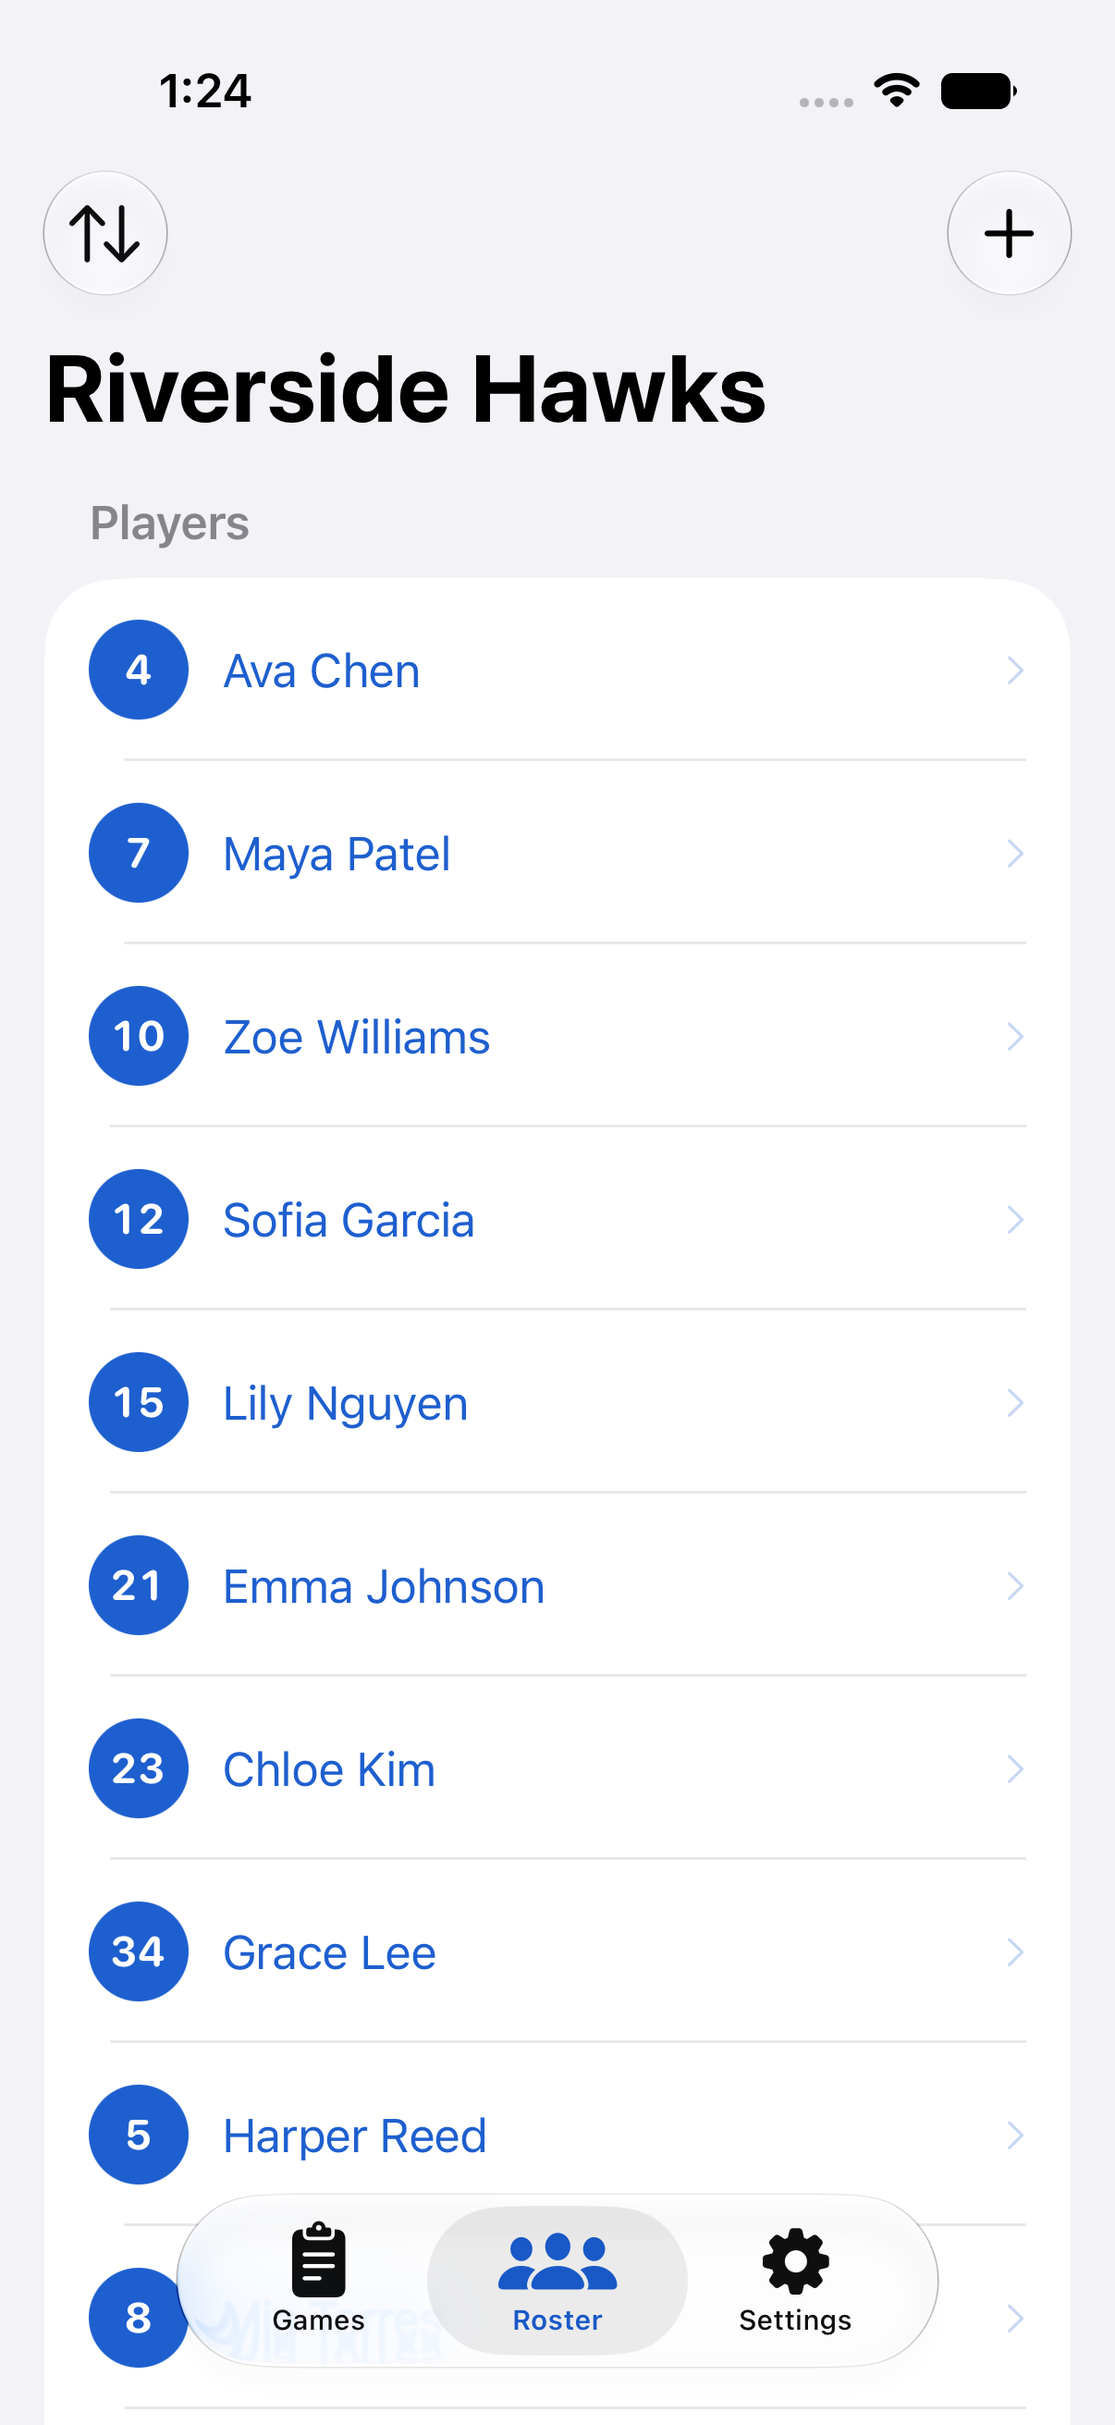
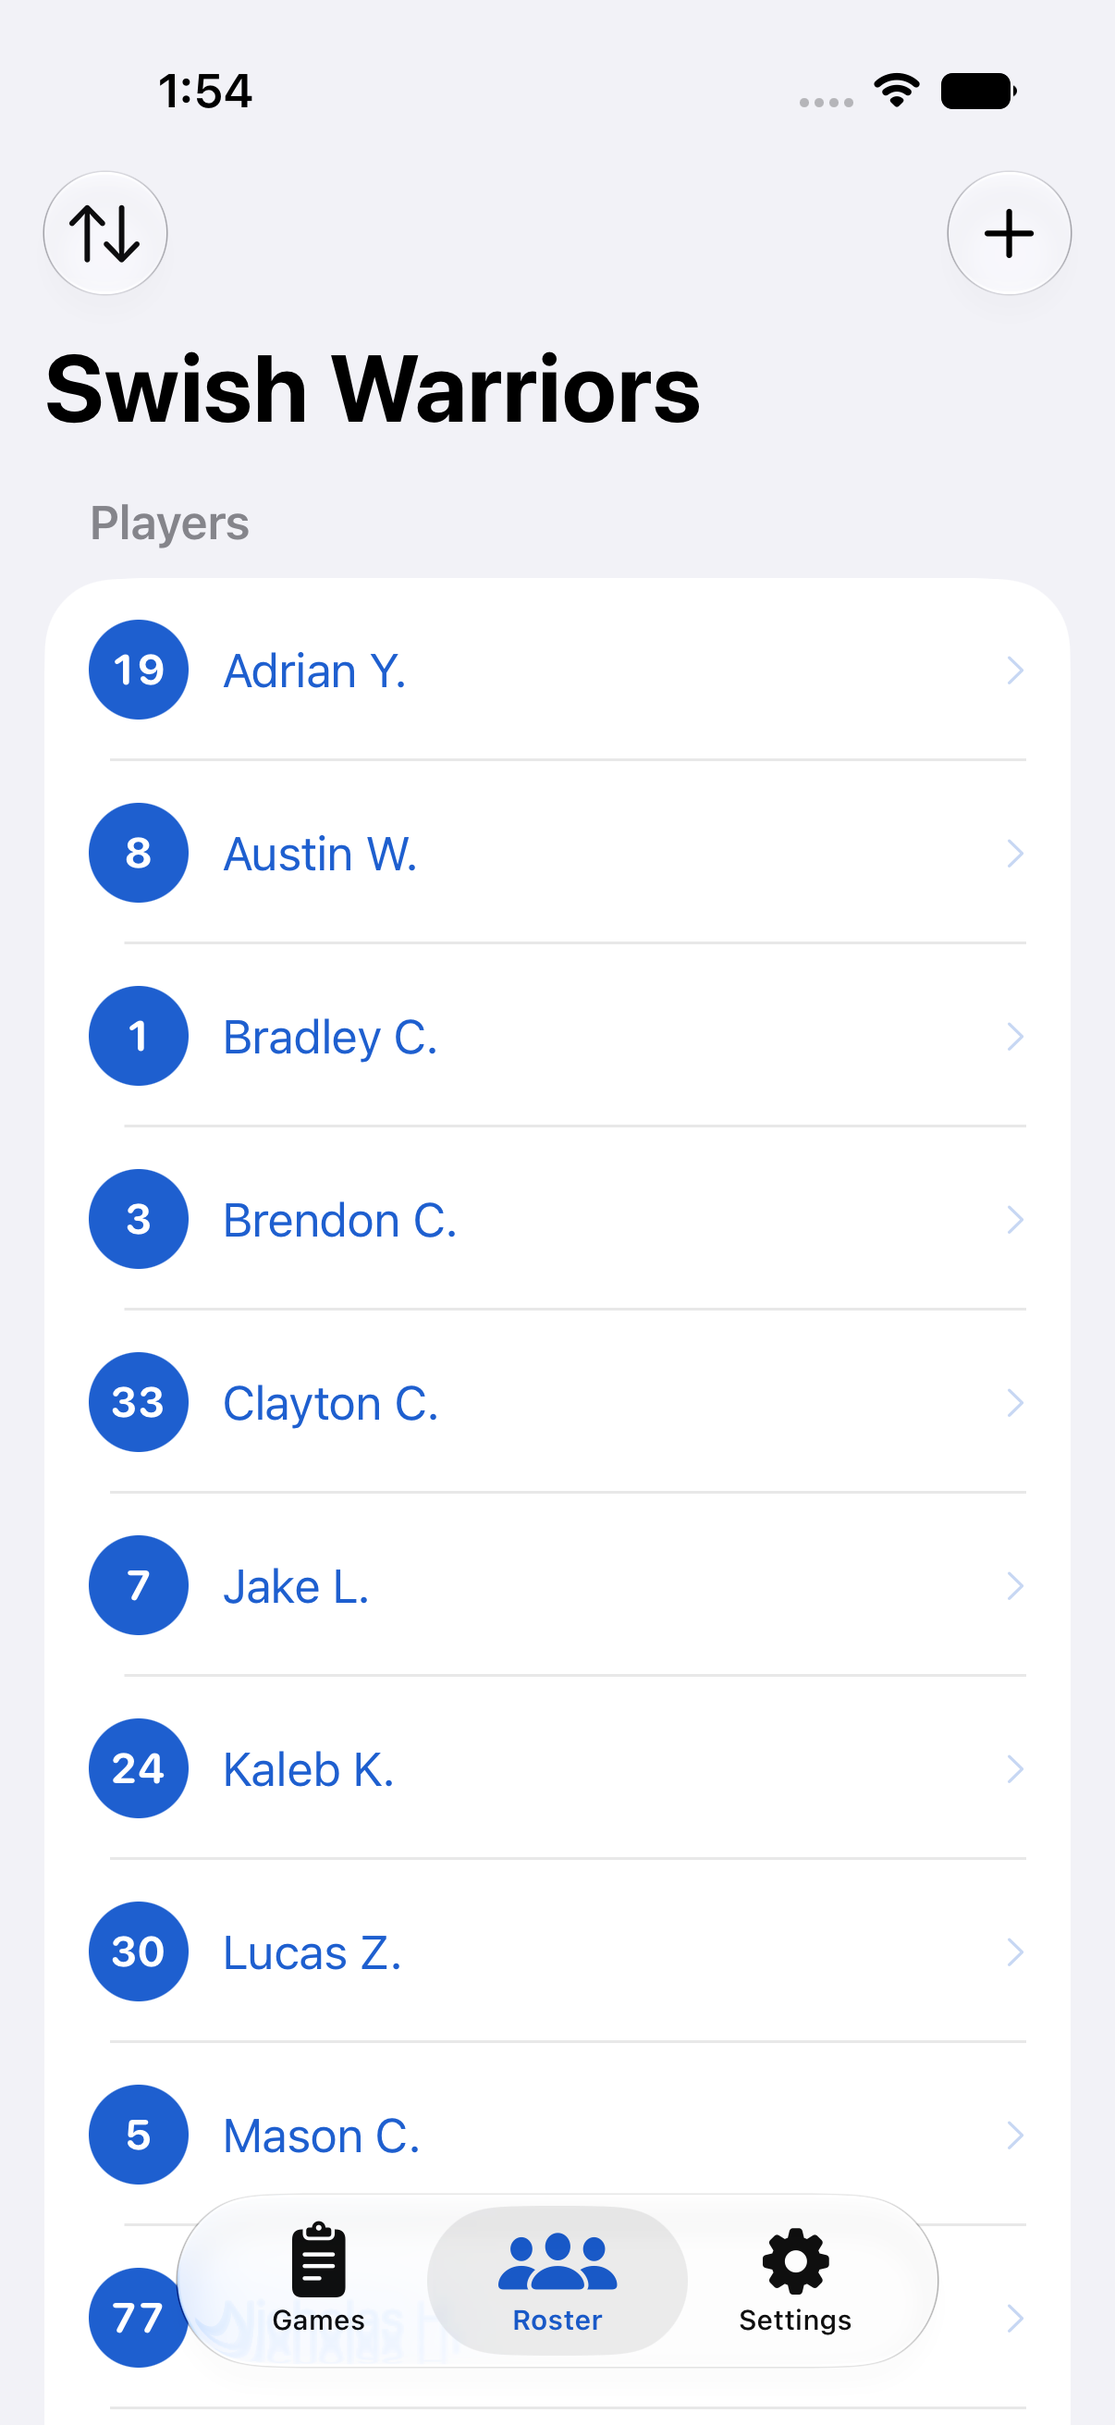
App Store prep: iPhone-only, Swish Warriors demo roster, listing doc
- Set TARGETED_DEVICE_FAMILY = 1 (iPhone-only) across all configs, closing
  the universal-vs-iPhone decision (#7) so no iPad screenshots/layout are
  needed for submission.
- Demo roster is now "Swish Warriors" with last-name-initial-only names
  (privacy-safe for a public repo / App Store shots), ordered alphabetically.
- Finished demo game reworked so #77 leads with a game-high 27 and six made
  3s; regenerated the six README screenshots (docs/img/).
- Updated ScreenshotUITests player taps for the new roster.
- Rewrote docs/APP_STORE_LISTING.md to match the shipping app (no foul
  tracking, no undo), with copy-paste metadata, privacy/age answers,
  iPhone-only screenshot guidance, and a pre-submission checklist.

Closes #7

diff --git a/CourtsideHoopStats/Models/DemoData.swift b/CourtsideHoopStats/Models/DemoData.swift
@@ -8,22 +8,25 @@ import Foundation
 enum DemoData {
     /// A believable youth-basketball roster.
     static func makeTeam() -> Team {
+        // Last-name initial only — real-ish roster kept privacy-safe for the
+        // public repo / App Store screenshots. Ordered alphabetically (the demo
+        // presents a Name-sorted roster); game scripts below index into THIS order.
         Team(
-            name: "Riverside Hawks",
+            name: "Swish Warriors",
             players: [
-                Player(name: "Ava Chen", number: "4"),
-                Player(name: "Maya Patel", number: "7"),
-                Player(name: "Zoe Williams", number: "10"),
-                Player(name: "Sofia Garcia", number: "12"),
-                Player(name: "Lily Nguyen", number: "15"),
-                Player(name: "Emma Johnson", number: "21"),
-                Player(name: "Chloe Kim", number: "23"),
-                Player(name: "Grace Lee", number: "34"),
-                Player(name: "Harper Reed", number: "5"),
-                Player(name: "Mia Torres", number: "8"),
-                Player(name: "Ella Brooks", number: "9"),
+                Player(name: "Adrian Y.", number: "19"),   // 0
+                Player(name: "Austin W.", number: "8"),     // 1
+                Player(name: "Bradley C.", number: "1"),    // 2
+                Player(name: "Brendon C.", number: "3"),    // 3
+                Player(name: "Clayton C.", number: "33"),   // 4
+                Player(name: "Jake L.", number: "7"),       // 5
+                Player(name: "Kaleb K.", number: "24"),     // 6
+                Player(name: "Lucas Z.", number: "30"),     // 7
+                Player(name: "Mason C.", number: "5"),      // 8
+                Player(name: "Nicholas H.", number: "77"),  // 9
+                Player(name: "Wesley C.", number: "88"),    // 10
             ],
-            homeJersey: .white
+            homeJersey: .blue
         )
     }
 
@@ -105,36 +108,38 @@ enum DemoData {
          scheduledGame()]
     }
 
-    // MARK: - Finished game (45–41 win) with a full four-quarter breakdown.
+    // MARK: - Finished game (48–41 win) with a full four-quarter breakdown.
 
     private static func finishedGame(team: Team) -> Game {
         let p = team.players
         var events: [GameEvent] = []
-        // (playerIndex, type, period) — our per-quarter deltas: 10, 12, 11, 12 = 45.
+        // (playerIndex, type, period). Nicholas (#77, index 9) is the standout —
+        // six made 3s and a game-high 27. Our per-quarter deltas: 12, 12, 11, 13 = 48.
         let script: [(Int, EventType, Int)] = [
-            // Q1 = 10
-            (0, .twoPoint, 1), (2, .threePoint, 1), (1, .twoPoint, 1),
-            (3, .twoPoint, 1), (0, .ftMade, 1),
+            // Q1 = 12
+            (9, .threePoint, 1), (9, .threePoint, 1), (2, .twoPoint, 1),
+            (8, .twoPoint, 1), (9, .ftMade, 1), (0, .ftMade, 1),
             // Q2 = 12
-            (2, .twoPoint, 2), (4, .threePoint, 2), (0, .twoPoint, 2),
-            (1, .ftMade, 2), (1, .ftMissed, 2), (5, .twoPoint, 2), (2, .ftMade, 2),
+            (9, .threePoint, 2), (3, .twoPoint, 2), (5, .twoPoint, 2),
+            (9, .twoPoint, 2), (1, .threePoint, 2),
             // Q3 = 11
-            (0, .threePoint, 3), (6, .twoPoint, 3), (2, .twoPoint, 3),
-            (3, .twoPoint, 3), (0, .ftMade, 3), (4, .ftMissed, 3),
-            // Q4 = 12
-            (1, .threePoint, 4), (0, .twoPoint, 4), (2, .twoPoint, 4),
-            (7, .twoPoint, 4), (5, .ftMade, 4), (5, .ftMade, 4), (6, .ftMissed, 4),
+            (9, .threePoint, 3), (8, .twoPoint, 3), (9, .twoPoint, 3),
+            (7, .twoPoint, 3), (9, .ftMade, 3), (9, .ftMissed, 3), (2, .ftMade, 3),
+            // Q4 = 13
+            (9, .threePoint, 4), (9, .threePoint, 4), (6, .twoPoint, 4),
+            (4, .twoPoint, 4), (9, .ftMade, 4), (9, .ftMade, 4), (9, .ftMade, 4),
+            (5, .ftMissed, 4),
         ]
         for (idx, type, period) in script {
             events.append(GameEvent(playerID: p[idx].id, type: type, period: period,
                                     timestamp: refDate.addingTimeInterval(Double(period) * 600)))
         }
-        // Opponent running totals per quarter: 8, 19, 30, 41 (final 41 < our 45).
+        // Opponent running totals per quarter: 8, 19, 30, 41 (final 41 < our 48).
         let periodEnds: [Int: PeriodEndScore] = [
-            1: PeriodEndScore(ourRunningTotal: 10, opponentRunningTotal: 8),
-            2: PeriodEndScore(ourRunningTotal: 22, opponentRunningTotal: 19),
-            3: PeriodEndScore(ourRunningTotal: 33, opponentRunningTotal: 30),
-            4: PeriodEndScore(ourRunningTotal: 45, opponentRunningTotal: 41),
+            1: PeriodEndScore(ourRunningTotal: 12, opponentRunningTotal: 8),
+            2: PeriodEndScore(ourRunningTotal: 24, opponentRunningTotal: 19),
+            3: PeriodEndScore(ourRunningTotal: 35, opponentRunningTotal: 30),
+            4: PeriodEndScore(ourRunningTotal: 48, opponentRunningTotal: 41),
         ]
         return Game(
             date: refDate,
@@ -146,7 +151,7 @@ enum DemoData {
             periodFormat: .quarters,
             events: events,
             periodEndScores: periodEnds,
-            notes: "Great defensive third quarter. Watch #12 on the press next time.",
+            notes: "Great defensive third quarter. Watch #33 on the press next time.",
             isComplete: true,
             hasStarted: true
         )
@@ -156,11 +161,12 @@ enum DemoData {
 
     private static func inProgressGame(team: Team) -> Game {
         let p = team.players
+        // Nicholas (index 9) opens with a 3; running total 7 at the Q1 break.
         let events: [GameEvent] = [
-            GameEvent(playerID: p[0].id, type: .twoPoint, period: 1),
-            GameEvent(playerID: p[2].id, type: .threePoint, period: 1),
-            GameEvent(playerID: p[1].id, type: .twoPoint, period: 1),
-            GameEvent(playerID: p[3].id, type: .twoPoint, period: 2),
+            GameEvent(playerID: p[9].id, type: .threePoint, period: 1),
+            GameEvent(playerID: p[2].id, type: .twoPoint, period: 1),
+            GameEvent(playerID: p[9].id, type: .twoPoint, period: 1),
+            GameEvent(playerID: p[5].id, type: .twoPoint, period: 2),
         ]
         return Game(
             date: refDate.addingTimeInterval(7 * 86_400),

diff --git a/CourtsideHoopStatsUITests/ScreenshotUITests.swift b/CourtsideHoopStatsUITests/ScreenshotUITests.swift
@@ -69,16 +69,16 @@ final class ScreenshotUITests: XCTestCase {
         snap(app, "03-live-scoring")
 
         // 3a) Tap a player → the big point pad (#33).
-        app.buttons["Ava #4"].tap()
+        app.buttons["Nicholas #77"].tap()
         XCTAssertTrue(app.buttons["+2"].waitForExistence(timeout: 5))
         snap(app, "12-score-pad")
         app.buttons["+2"].tap()   // records + dismisses
 
         // 3b) Bench players via the pad's "Not playing"; they collapse into a strip.
-        app.buttons["Ella #9"].tap()
+        app.buttons["Wesley #88"].tap()
         XCTAssertTrue(app.buttons["Not playing"].waitForExistence(timeout: 5))
         app.buttons["Not playing"].tap()
-        app.buttons["Mia #8"].tap()
+        app.buttons["Kaleb #24"].tap()
         XCTAssertTrue(app.buttons["Not playing"].waitForExistence(timeout: 5))
         app.buttons["Not playing"].tap()
         let benchToggle = app.buttons["Not playing (2)"]

diff --git a/docs/APP_STORE_LISTING.md b/docs/APP_STORE_LISTING.md
@@ -1,52 +1,75 @@
 # App Store Listing — Courtside Hoop Stats
 
-Draft copy and assets checklist for the App Store submission. Edit to taste
-before submitting.
+Copy-paste-ready metadata for the App Store Connect submission. Everything here
+reflects the app **as it actually ships today** (iPhone-only, tap-to-score, no
+foul tracking, no undo button). Edit tone to taste before submitting.
 
-## Names & identity
+---
 
-- **App Name (30 char max):** Courtside Hoop Stats
-- **Subtitle (30 char max):** `Fast courtside stat tracking`
-- **Category:** Primary: Sports · Secondary: (optional)
-- **Age rating:** 4+
+## 1. Names & identity
 
-## Promotional text (170 char max — editable anytime without review)
+| Field | Value |
+|---|---|
+| **App Name** (30 char max) | `Courtside Hoop Stats` (20) |
+| **Subtitle** (30 char max) | `Fast courtside stat tracking` (28) |
+| **Bundle ID** | `com.thomashan.CourtsideHoopStats` |
+| **SKU** (your internal ref) | `courtside-hoop-stats-01` |
+| **Primary category** | Sports |
+| **Secondary category** | (optional — leave blank, or *Utilities*) |
+| **Version** | `1.0` (`MARKETING_VERSION`) |
+| **Build** | `1` (`CURRENT_PROJECT_VERSION` — bump each upload) |
+| **Age rating** | **4+** (see §7) |
+| **Price** | Free |
+| **Availability** | All countries, or just your region |
 
-> Two taps to track every basket, free throw, and foul — the team score adds
-> itself. Built for keeping youth-game stats from the sideline.
+Device support: **iPhone only** (`TARGETED_DEVICE_FAMILY = 1`) → **no iPad
+screenshots or iPad review required.**
 
-## Keywords (100 char max, comma-separated, no spaces)
+---
+
+## 2. Promotional text (170 char max — editable anytime, no review)
+
+> Tap a player, tap the basket — the team score adds itself. The fastest way to
+> keep youth-basketball stats from the sideline, one-handed.
+
+## 3. Keywords (100 char max, comma-separated, NO spaces)
 
 ```
-basketball,stats,scorekeeper,box score,youth,coach,team,scoring,tracker,hoops,tally,stat
+basketball,stats,scorekeeper,box score,youth,coach,team,scoring,tracker,hoops,tally,sideline
 ```
 
-## Description
+(96 chars. Don't repeat the app name or category — Apple already indexes those.)
 
-> **Courtside Hoop Stats is the fastest way to keep your team's basketball stats — right from the sideline.**
+---
+
+## 4. Description
+
+> **The fastest way to keep your team's basketball stats — right from the sideline.**
 >
-> Built for the parent or coach tracking a youth game alone, it replaces the messy spreadsheet with two taps: tap a player, tap what they did. The score adds itself.
+> Courtside Hoop Stats is built for the one parent or coach tracking a youth game alone. It replaces the messy spreadsheet with two taps: tap a player, tap what they did. The team score adds itself.
+>
+> **BUILT FOR SPEED, COURTSIDE**
+> • Tap a player, then a big +2 / +3 / FT button — that's the whole flow
+> • Live score log stays on top; players sit in the thumb zone
+> • Large, high-contrast buttons and scoreboard, readable in a bright gym
+> • Follows Light or Dark automatically
 >
 > **TRACK WHAT MATTERS**
 > • 2-point and 3-point field goals
 > • Free throws — made and missed, for accurate FT%
-> • Fouls
-> • Team score, calculated automatically from every event
->
-> **BUILT FOR SPEED, COURTSIDE**
-> • Two-tap scoring — no fiddly menus
-> • One-tap Undo for fat-finger fixes
-> • Big, readable buttons and scoreboard
-> • Clear in a bright gym (light and dark)
+> • Team score, calculated automatically from every basket
+> • Bench players who aren't at the game so the roster stays uncluttered
 >
 > **GAME MANAGEMENT**
-> • 4 quarters or 2 halves — your league's format
+> • Quarters, halves, or a no-periods pickup game — your league's format
+> • Quick Pickup Game: start scoring instantly, zero setup
 > • Enter the opponent's running score at each period break
-> • Editable event log — fix a mistake anytime
+> • Editable, reorderable score log — fix any mistake, anytime
+> • Manage multiple teams; each keeps its own roster and games
 >
 > **AFTER THE GAME**
-> • Period-by-period score grid and final result
-> • Per-player stat table: points, 2PT, 3PT, FT, fouls
+> • Period-by-period linescore and final result
+> • Per-player stat table: points, 2PT, 3PT, and free-throw shooting
 > • Notes for scouting and observations
 >
 > **YOUR DATA STAYS YOURS**
@@ -54,33 +77,95 @@ basketball,stats,scorekeeper,box score,youth,coach,team,scoring,tracker,hoops,ta
 >
 > Perfect for youth leagues, rec teams, and any parent who wants real stats without the hassle.
 
-## Support / marketing URLs
+## 5. What's New (release notes for v1.0)
 
-- **Support URL (required):** [TBD — a simple page or the GitHub repo]
-- **Privacy Policy URL (required):** [TBD — host `docs/PRIVACY_POLICY.md`]
-- **Marketing URL (optional):** —
+> First release. Fast two-tap courtside scoring, editable score log, multi-team
+> rosters, quarter/half/pickup formats, and a per-player + period-by-period game
+> summary.
 
-## Screenshots checklist
+---
 
-Capture 3–10 per required size, on the Simulator (Cmd+S saves a screenshot).
-Good screens to show: **Live Scoring** (the hero), **Game Summary** stat table,
-**Games list**, **Roster**.
+## 6. App Privacy (the "nutrition label" questionnaire)
 
-Required sizes (as of 2026 — verify in App Store Connect at submission):
-- **6.9-inch** iPhone (e.g. iPhone 16 Pro Max) — **required**
-- **6.5-inch** iPhone — recommended
-- **iPad 13-inch** — **only required if the app ships as universal** (see note)
+The app collects **nothing** and has no backend, so answer the App Store Connect
+privacy questions as:
 
-> **Decision needed:** the Xcode target is currently universal
-> (`TARGETED_DEVICE_FAMILY = 1,2` → iPhone + iPad). If you submit as universal,
-> Apple requires iPad screenshots and the app must look right on iPad. Since this
-> is a phone-first courtside app, consider setting it to **iPhone-only**
-> (`TARGETED_DEVICE_FAMILY = 1`) before submission to skip iPad requirements.
-> (Would be a small terminal/project change — not urgent until App Store time.)
+- **Do you or your third-party partners collect data from this app?** → **No**
 
-## Review notes (optional field, to help Apple's reviewer)
+That yields a "**Data Not Collected**" label. (No account, no analytics SDK, no
+ads, no network calls — all storage is local UserDefaults/JSON.)
+
+**Export compliance / encryption:** already declared in the target —
+`ITSAppUsesNonExemptEncryption = NO`. App Store Connect will not ask again.
+
+---
+
+## 7. Age rating questionnaire → 4+
+
+Answer **None / No** to every content question (no violence, no mature/suggestive
+themes, no user-generated content, no web access, no gambling, no contests). Result: **4+**.
+
+---
+
+## 8. URLs
+
+| Field | Required? | Value |
+|---|---|---|
+| **Support URL** | **Required** | e.g. the GitHub repo, or a one-page site. `https://github.com/thomashan1/courtside-hoop-stats` |
+| **Privacy Policy URL** | **Required** | Host `docs/PRIVACY_POLICY.md` somewhere public (GitHub Pages, or the raw file URL). |
+| **Marketing URL** | Optional | — |
+
+> **Action:** you need a *reachable* HTTPS Privacy Policy URL. Easiest path:
+> enable GitHub Pages on the repo (once it's public) and link the rendered
+> `PRIVACY_POLICY.md`, or paste its contents into a gist/page.
+
+---
+
+## 9. Screenshots
+
+**iPhone-only → you only need iPhone sizes.** As of 2026 App Store Connect
+accepts a single required size and scales it:
+
+- **6.9-inch** (iPhone 17 Pro Max / 16 Pro Max) — **required**, 1320 × 2868.
+- 6.5-inch / 6.1-inch — optional; the 6.9" set is reused if omitted.
+
+Generate them with the harness at the Max size:
+
+```bash
+scripts/screenshots.sh "iPhone 17 Pro Max"
+```
+
+Suggested 4–6 to upload (hero first): **Live Scoring**, **Score pad**,
+**Game Summary**, **Games list**, **Roster**. (The committed `docs/img/*.png`
+are the 6.3" set used for the README — regenerate at Max size for the store.)
+
+App preview video: optional, skip for v1.0.
+
+---
+
+## 10. Review notes (App Review Information field)
 
 > Single-user local app for tracking a youth basketball team's stats. No account
-> or login required. To try it: add a player or two on the Roster tab, tap "+" on
-> Games to start a game, tap a player then an action to score, then "End Period"
-> to finish.
+> or login. To try it: on the Roster tab add a player or two (or it ships with a
+> sample team), tap "+" on the Games tab (or the ⚡ Quick Pickup button) to start
+> a game, tap a player then a +2/+3/FT button to score, then "End Period" to
+> advance. All data is stored locally on device.
+
+No demo account needed (there is no login).
+
+---
+
+## 11. Pre-submission checklist
+
+- [x] Paid Apple Developer Program membership active
+- [x] Bundle ID registered (`com.thomashan.CourtsideHoopStats`)
+- [x] iPhone-only (`TARGETED_DEVICE_FAMILY = 1`)
+- [x] Encryption declaration set (`ITSAppUsesNonExemptEncryption = NO`)
+- [x] App icon present (1024×1024, no alpha)
+- [ ] **Build with a release Xcode** (App Store rejects beta-SDK binaries) — not the Xcode 27 beta
+- [ ] Set the signing **Team** to your paid team + a Distribution provisioning profile
+- [ ] Bump build number, `Product ▸ Archive`, upload via Organizer (or `xcodebuild -exportArchive`)
+- [ ] Capture 6.9" screenshots (`scripts/screenshots.sh "iPhone 17 Pro Max"`)
+- [ ] Host the Privacy Policy at a public HTTPS URL and paste it in
+- [ ] Fill App Privacy = *Data Not Collected*; Age rating = 4+
+- [ ] One real game of use (validate with the actual courtside user) before release
